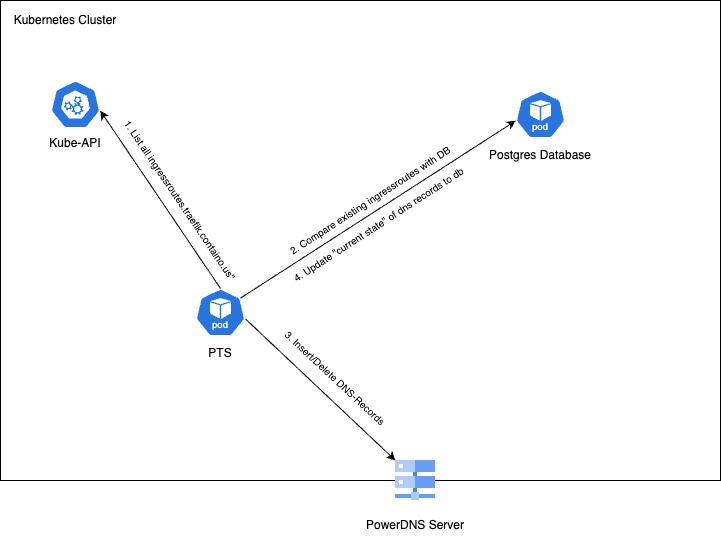
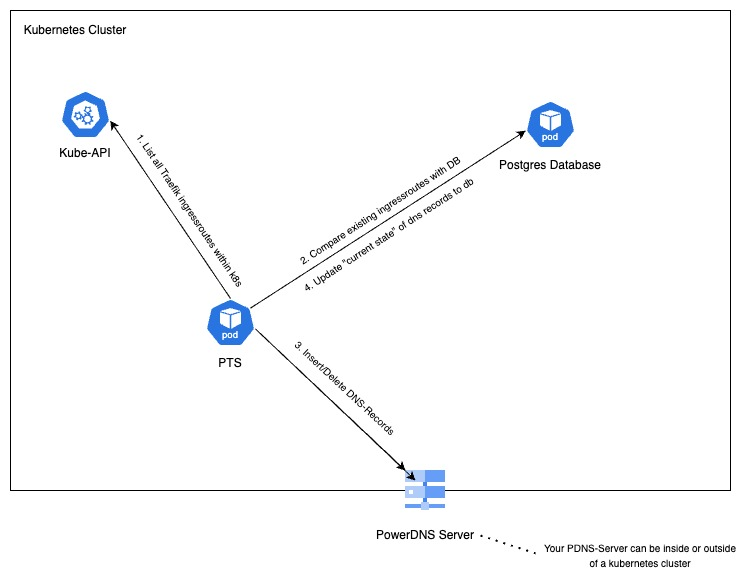
chore(docs): update readme.md and image files

Changed region(s): [[0.0, 0.0, 1.0, 0.976], [0.7323, 0.9168, 0.9764, 0.976]]

diff --git a/README.md b/README.md
@@ -18,7 +18,7 @@
   <h3 align="center">PowerDNS Traefik Sync Tool for Kubernetes</h3>
 
   <p align="center">
-    A Python-based Kubernetes application that monitors Traefik IngressRoutes to automatically create DNS records in PowerDNS.
+    A Python-based Kubernetes application that monitors Traefik IngressRoutes within Kubernetes to automatically create DNS records in your PowerDNS-Server.
     <br />
     <br />
     ·
@@ -74,7 +74,6 @@ Components:
 
 
 
-
 <!-- GETTING STARTED -->
 ## Getting Started
 
@@ -91,17 +90,24 @@ The following requirements are necessary to install the project.
 - Ingresscontroller Traefik
 - Zalando Postgres Operator
 
-### Installation
 
-_The deployment is handled by a Makefile._
 
-1. Clone the repo
-    ```sh
+## Usage
+
+_The deployment is handled by a Makefile._ Please always use a [released tag version](https://github.com/Tim-herbie/k8s_powerdns_traefik_sync/releases) instead of the unstable main branch!
+
+### Clone the repo
+   ```sh
    git clone https://github.com/Tim-herbie/k8s_powerdns_traefik_sync.git
    ```
-2.  Before you can deploy it, you have at least to adjust the deployment environment variables in the `deployment.yaml` file. 
+
+### Fill out variables 
+  Before you can deploy it, you have at least to adjust the following Makefile variables:
+  - PDNS_API_URL
+  - DNS_ZONE
+  - K8S_INGRESS
   
-3. Install the Makefile
+### Install the Makefile
    ```sh
    make all
    ```
@@ -111,7 +117,7 @@ _The deployment is handled by a Makefile._
 
 
 <!-- USAGE EXAMPLES -->
-## Usage
+## Documentation
 
 ### PDNS Paramters
 | Parameter | Default value               | Description                 |
@@ -122,16 +128,17 @@ _The deployment is handled by a Makefile._
 | TTL    | `3600`       | The TTL of your dns records, which will be created.            |
 | CONTENT | `ingress.example.com.`       | The DNS-Name of an existing dns record that point to your Kuberentes Ingress Gateway.                  |
 
-
 ### PTS Tool Paramters
 | Parameter | Default value                | Description              |
 |--------|------------------------|---------------------------------------|
 | DEBUG_LOGGING    | `false`           | Debug Logging should only be activated for Troubleshooting, because it generates much Logs.             | 
 | SLEEP_DURATION   | `45`           | The time interval for the loop to check if new Traefik Ingressroutes were created/deleted.                    | 
-
+| TRAEFIK_CRD_GROUP   | `traefik.io`           | The CRD Group of Traefik.                    | 
+| TRAEFIK_CRD_VERSION   | `v1alpha1`           | The CRD Version of Traefik                    | 
+| TRAEFIK_CRD_PLURAL   | `ingressroutes`           | The CRD PLURAL of Traefik                   | 
 
 ### PSS Database Paramters
-| Parameter | Description               | Default value                   |
+| Parameter | Default value                | Description                |
 |--------|------------------------|---------------------------------------|
 | PTS_DB_NAME    | `records`           | The name of the PTS PSQL Database.             | 
 | PTS_DB_USER   | `postgres`           | The username of the PTS PSQL Database.                    | 
@@ -142,9 +149,7 @@ _The deployment is handled by a Makefile._
 ### Debug Logs
 If the `DEBUG_LOGGING` parameter in the `deployment.yaml` file is `false`, it will only log if a new Traefik Ingressroute was found or was not found anymore and deleted. If you are not sure that the tool is working fine, please change it to `true`.
 
-
 <p align="right">(<a href="#readme-top">back to top</a>)</p>
-
 
 
 
